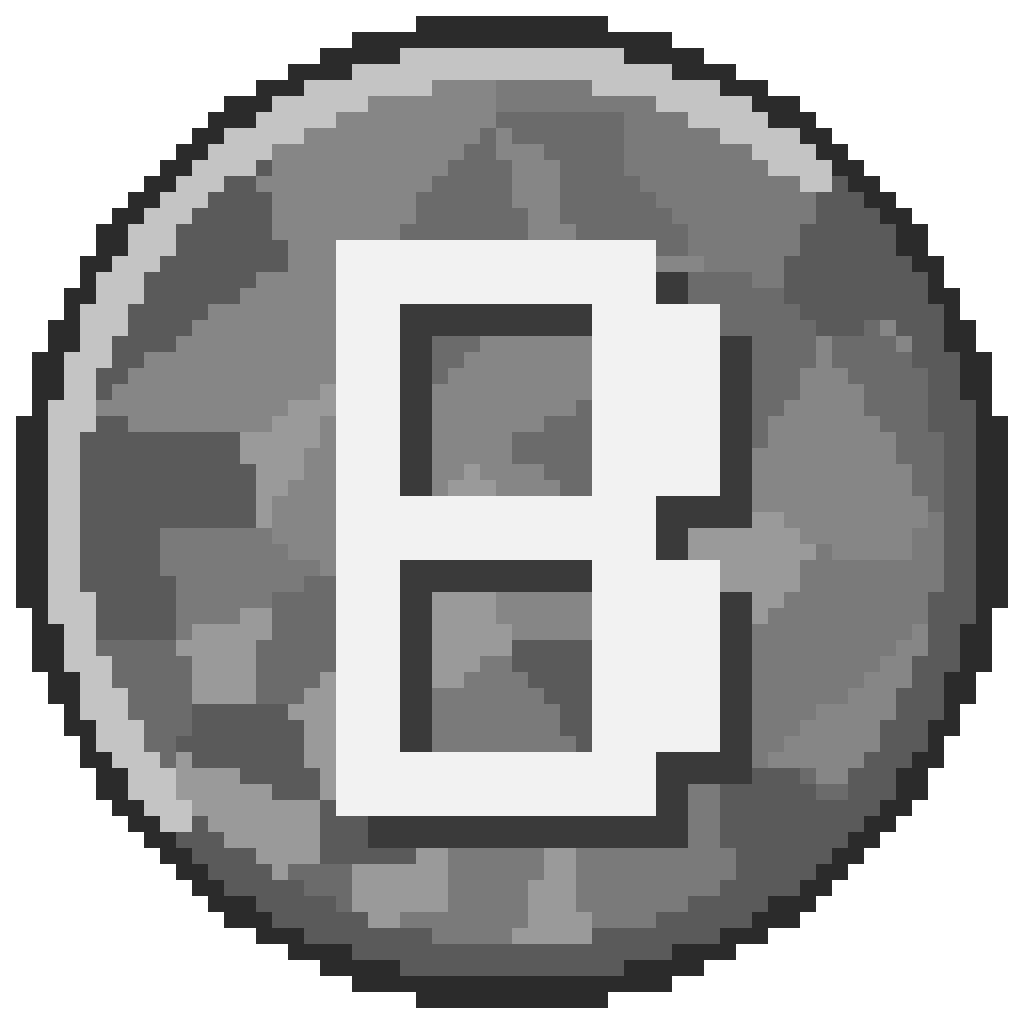
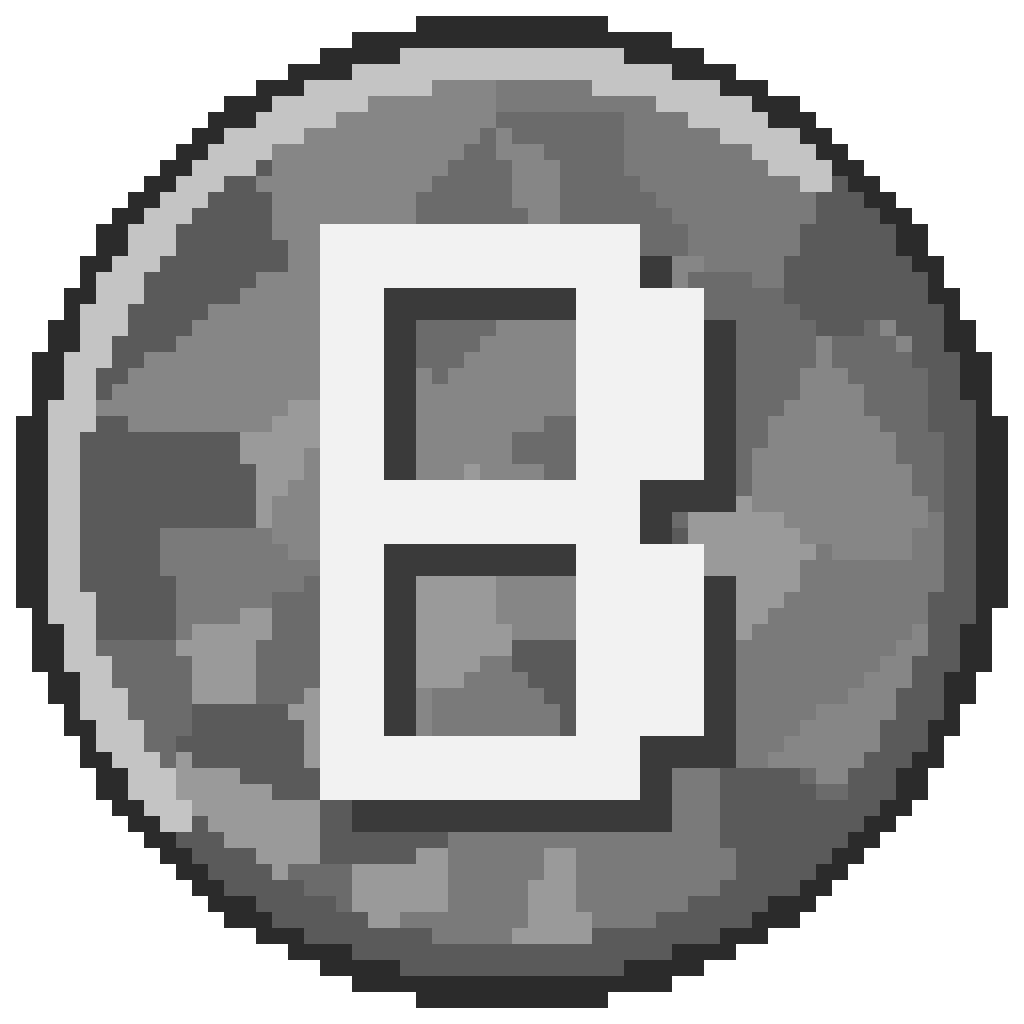
Centre the letter in the coin, and use the coin in the shop too
The B sat a pixel down and right of the coin it rides on, at every size. The
cause was a stray "+ 1" on both glyph coordinates in make-icon.js; measuring the
white pixels' bounding box now puts its centre exactly on the texture's centre
for all three sizes.

The HUD coin is drawn a pixel up and left of where the layout puts it. That is
not taste: the coin fills all but the outermost row and column of its 32-pixel
texture, so scaling to 16 samples the first screen pixel from the empty texel and
the coin lands a pixel low and right inside its own box.

The shop header shows the coin instead of the letter B, which leaves the HUD and
the shop using one symbol for one currency. It honours the same client setting,
so turning the icon off gives the letter in both places rather than one of each.
Both now go through CoinIcon, which owns the texture, its size and the blit
overload that puts a 32-pixel texture in a smaller box - three facts that were
about to exist in two copies.

Also repaired mojibake in ShopScreen's comments: an earlier perl edit wrote a
wide character to a non-UTF-8 stream and took seven em-dashes with it.

Changed region(s): [[0.3125, 0.2188, 0.75, 0.8438], [0.375, 0.5312, 0.5938, 0.75], [0.375, 0.2812, 0.5938, 0.5]]

diff --git a/scripts/make-icon.js b/scripts/make-icon.js
@@ -122,8 +122,10 @@ function drawCoin(size, blobCount, glyph, glyphScale, rimWidth) {
 
   const gw = glyph[0].length * glyphScale;
   const gh = glyph.length * glyphScale;
-  const gx = Math.round(c - gw / 2) + 1;
-  const gy = Math.round(c - gh / 2) + 1;
+  // No fudge factor here. These used to carry a "+ 1" that pushed the letter a pixel down
+  // and right of the coin it sits on, which is visible at every size.
+  const gx = Math.round(c - gw / 2);
+  const gy = Math.round(c - gh / 2);
   const shadow = Math.max(1, Math.round(glyphScale / 2));
 
   const stamp = (dx, dy, colour) => {

diff --git a/src/main/java/com/alexlogvin/blockieseconomy/client/ShopScreen.java b/src/main/java/com/alexlogvin/blockieseconomy/client/ShopScreen.java
@@ -24,8 +24,8 @@ import net.minecraft.world.item.ItemStack;
  * The shop.
  *
  * <p>A plain {@link Screen} rather than an {@code AbstractContainerMenu}, deliberately.
- * Nothing here moves items through slots â a purchase is a request the server validates and
- * fulfils â so a menu would buy nothing but the registration divergence between Fabric and
+ * Nothing here moves items through slots — a purchase is a request the server validates and
+ * fulfils — so a menu would buy nothing but the registration divergence between Fabric and
  * NeoForge, plus a synced container the client could be tempted to trust.
  *
  * <p>Everything shown is display state from {@link ClientShopState}. The totals under the
@@ -54,6 +54,10 @@ public final class ShopScreen extends Screen {
     private static final int COLOUR_SELL = 0x60E060;
     private static final int COLOUR_PANEL = 0xF0100010;
     private static final int COLOUR_BORDER = 0x50FFFFFF;
+
+    /** The coin beside the balance in the header. Sized to sit on one line of text. */
+    private static final int BALANCE_ICON_SIZE = 10;
+    private static final int BALANCE_ICON_GAP = 3;
 
     /** Matches the server's own cap, so the screen cannot ask for what it would refuse. */
     private static final int MAX_TRADE = 10_000;
@@ -92,7 +96,7 @@ public final class ShopScreen extends Screen {
      * The widgets, in draw order.
      *
      * <p>Kept here rather than read back from {@code Screen.renderables}, which is private
-     * on 1.20.1 and protected later. This screen draws its widgets itself â see
+     * on 1.20.1 and protected later. This screen draws its widgets itself — see
      * {@link #render} for why it cannot let the superclass do it.
      */
     private final List<AbstractWidget> widgets = new ArrayList<AbstractWidget>();
@@ -314,7 +318,7 @@ public final class ShopScreen extends Screen {
             }
             Item item = resolve(itemId);
             if (item == null) {
-                // Priced by the server but absent here â a mod the server has and we do
+                // Priced by the server but absent here — a mod the server has and we do
                 // not. Listing it would show a missing-texture cube nobody can use.
                 continue;
             }
@@ -415,7 +419,7 @@ public final class ShopScreen extends Screen {
     /**
      * How many of the selected item the player appears to be holding.
      *
-     * <p>An estimate, and knowingly so. The server decides what is actually sellable â it
+     * <p>An estimate, and knowingly so. The server decides what is actually sellable — it
      * refuses anything with non-default components, which the client cannot check the same
      * way across versions. Enchanted stacks are excluded here because they are the common
      * case; anything else it gets wrong comes back as a refusal, not a wrong payment.
@@ -459,8 +463,8 @@ public final class ShopScreen extends Screen {
     /**
      * Keeps the buttons in step with things that change while the screen is open.
      *
-     * <p>A balance can move without the player touching the shop â an advancement pays out,
-     * or an operator adjusts it â and items can arrive in the inventory. Twenty times a
+     * <p>A balance can move without the player touching the shop — an advancement pays out,
+     * or an operator adjusts it — and items can arrive in the inventory. Twenty times a
      * second is cheap for a scan of forty-one slots and avoids a Buy button that claims the
      * player cannot afford something they now can.
      */
@@ -503,11 +507,29 @@ public final class ShopScreen extends Screen {
         // player decides what they can afford, and "4.9K" beside a 4,900-Blockie price is
         // a number they have to do arithmetic on. The HUD is a glance; this is a decision.
         String text = ClientShopState.get().balanceKnown()
-                ? ClientMoneyText.fullForm(ClientShopState.get().balance()) + " "
-                        + ClientMoneyText.currency()
+                ? ClientMoneyText.fullForm(ClientShopState.get().balance())
                 : "—";
-        graphics.drawString(font, text, x + PANEL_WIDTH - 8 - font.width(text), y + 7,
-                COLOUR_TITLE);
+
+        // The coin, the same symbol the HUD shows, rather than the letter B. Honours the
+        // same setting: a player who turned the icon off wants the letter everywhere, not
+        // one of each.
+        boolean icon = BlockiesEconomy.server().config().client().showCurrencyIcon();
+        int right = x + PANEL_WIDTH - 8;
+        int textTop = y + 7;
+
+        if (icon) {
+            int iconX = right - BALANCE_ICON_SIZE;
+            graphics.drawString(font, text, iconX - BALANCE_ICON_GAP - font.width(text),
+                    textTop, COLOUR_TITLE);
+            // Centred on the text's own line rather than the panel header, so the two read
+            // as one label however the header grows.
+            CoinIcon.draw(graphics, iconX,
+                    textTop + (font.lineHeight - BALANCE_ICON_SIZE) / 2, BALANCE_ICON_SIZE);
+        } else {
+            String withSymbol = text + " " + ClientMoneyText.currency();
+            graphics.drawString(font, withSymbol, right - font.width(withSymbol), textTop,
+                    COLOUR_TITLE);
+        }
     }
 
     private void renderGrid(GuiGraphics graphics, int mouseX, int mouseY) {

diff --git a/src/main/java/com/alexlogvin/blockieseconomy/client/BalanceHud.java b/src/main/java/com/alexlogvin/blockieseconomy/client/BalanceHud.java
@@ -5,7 +5,6 @@ import com.alexlogvin.blockieseconomy.core.config.ClientConfig;
 import com.alexlogvin.blockieseconomy.core.config.HudAnchor;
 import net.minecraft.client.Minecraft;
 import net.minecraft.client.gui.GuiGraphics;
-import net.minecraft.resources.ResourceLocation;
 
 /**
  * The balance readout drawn over the game.
@@ -18,34 +17,22 @@ public final class BalanceHud {
     /** Kept clear of the screen edge, before the player's own offset is applied. */
     private static final int MARGIN = 4;
 
-    /** How big the coin is drawn on screen. Unchanged; only the texture got sharper. */
+    /** How big the coin is drawn on screen. */
     private static final int ICON_SIZE = 16;
 
     /**
-     * The coin texture is 32x32 while it draws into a 16x16 box.
+     * The coin is nudged a pixel up and left of where the layout puts it.
      *
-     * <p>Two pixels of texture per pixel of screen, so the icon still has detail left at
-     * GUI scale 2 and above, where a 16-pixel texture is magnified and goes visibly blocky
-     * next to the crisp vanilla font beside it. It costs 378 bytes.
+     * <p>Not arbitrary: the texture is 32 wide and the coin fills all but its outermost
+     * row and column, so scaling to 16 samples the first screen pixel from the empty
+     * texel and the coin lands a pixel down and right inside its own box. Correcting the
+     * draw position is cheaper than a texture whose art runs to the very edge, where
+     * there is no room left for the dark rim to read.
      */
-    private static final int ICON_TEXTURE_SIZE = 32;
+    private static final int ICON_NUDGE = 1;
+
     private static final int GAP = 3;
     private static final int TEXT_COLOUR = 0xFFFFFF;
-
-    /**
-     * The mod's own coin, the same artwork the mod list shows.
-     *
-     * <p>A texture rather than a rendered cobblestone item, which is what this used to be.
-     * An item has to go through the block model renderer every frame for a 16-pixel badge,
-     * and it is whatever the player's resource pack says cobblestone looks like, which may
-     * be anything at all. A flat texture is one quad, and it is recognisably this mod.
-     *
-     * <p>Built with tryParse rather than a constructor: the two-argument ResourceLocation
-     * constructor is deprecated on 1.20.1 and gone by 1.21, while tryParse is public on
-     * both. The id is a literal that cannot fail to parse.
-     */
-    private static final ResourceLocation ICON =
-            ResourceLocation.tryParse(BlockiesEconomy.MOD_ID + ":textures/gui/coin.png");
 
     private BalanceHud() {
     }
@@ -69,10 +56,7 @@ public final class BalanceHud {
         int y = anchor.y(graphics.guiHeight(), height, MARGIN) + config.offsetY();
 
         if (icon) {
-            // The overload that takes the destination size separately from the source
-            // region, which is what lets a 32-pixel texture land in a 16-pixel box.
-            graphics.blit(ICON, x, y, ICON_SIZE, ICON_SIZE, 0.0F, 0.0F,
-                    ICON_TEXTURE_SIZE, ICON_TEXTURE_SIZE, ICON_TEXTURE_SIZE, ICON_TEXTURE_SIZE);
+            CoinIcon.draw(graphics, x - ICON_NUDGE, y - ICON_NUDGE, ICON_SIZE);
         } else {
             graphics.drawString(minecraft.font, ClientMoneyText.currency(), x,
                     y + (height - minecraft.font.lineHeight) / 2, TEXT_COLOUR);

diff --git a/src/main/java/com/alexlogvin/blockieseconomy/client/CoinIcon.java b/src/main/java/com/alexlogvin/blockieseconomy/client/CoinIcon.java
@@ -1,0 +1,51 @@
+package com.alexlogvin.blockieseconomy.client;
+
+import com.alexlogvin.blockieseconomy.BlockiesEconomy;
+import net.minecraft.client.gui.GuiGraphics;
+import net.minecraft.resources.ResourceLocation;
+
+/**
+ * The currency symbol: the mod's coin, drawn wherever a balance is shown.
+ *
+ * <p>One definition rather than one per screen. The HUD and the shop both show a balance,
+ * and having each keep its own copy of "which texture, how big, which blit overload" is
+ * how they drift into looking like two different mods.
+ *
+ * <p>A texture rather than a rendered cobblestone item, which is what this used to be. An
+ * item goes through the block model renderer every frame for a badge a few pixels across,
+ * and it looks like whatever the player's resource pack says cobblestone looks like.
+ */
+public final class CoinIcon {
+
+    /**
+     * Built with {@code tryParse} rather than a constructor: the two-argument
+     * {@code ResourceLocation} constructor is deprecated on 1.20.1 and gone by 1.21, while
+     * {@code tryParse} is public on both. The id is a literal that cannot fail to parse.
+     */
+    private static final ResourceLocation TEXTURE =
+            ResourceLocation.tryParse(BlockiesEconomy.MOD_ID + ":textures/gui/coin.png");
+
+    /**
+     * The texture is 32x32 and is always drawn smaller than that.
+     *
+     * <p>Two texels per screen pixel at the HUD's 16, so the coin still has detail left at
+     * GUI scale 2 and above, where a 16-pixel texture is magnified and goes visibly blocky
+     * beside the crisp vanilla font next to it.
+     */
+    private static final int TEXTURE_SIZE = 32;
+
+    private CoinIcon() {
+    }
+
+    /**
+     * Draws the coin at {@code size} pixels square.
+     *
+     * <p>Uses the blit overload that takes the destination size separately from the source
+     * region — the only one that will put a 32-pixel texture into a smaller box — and it
+     * has the same signature on every version this mod targets.
+     */
+    public static void draw(GuiGraphics graphics, int x, int y, int size) {
+        graphics.blit(TEXTURE, x, y, size, size, 0.0F, 0.0F,
+                TEXTURE_SIZE, TEXTURE_SIZE, TEXTURE_SIZE, TEXTURE_SIZE);
+    }
+}
